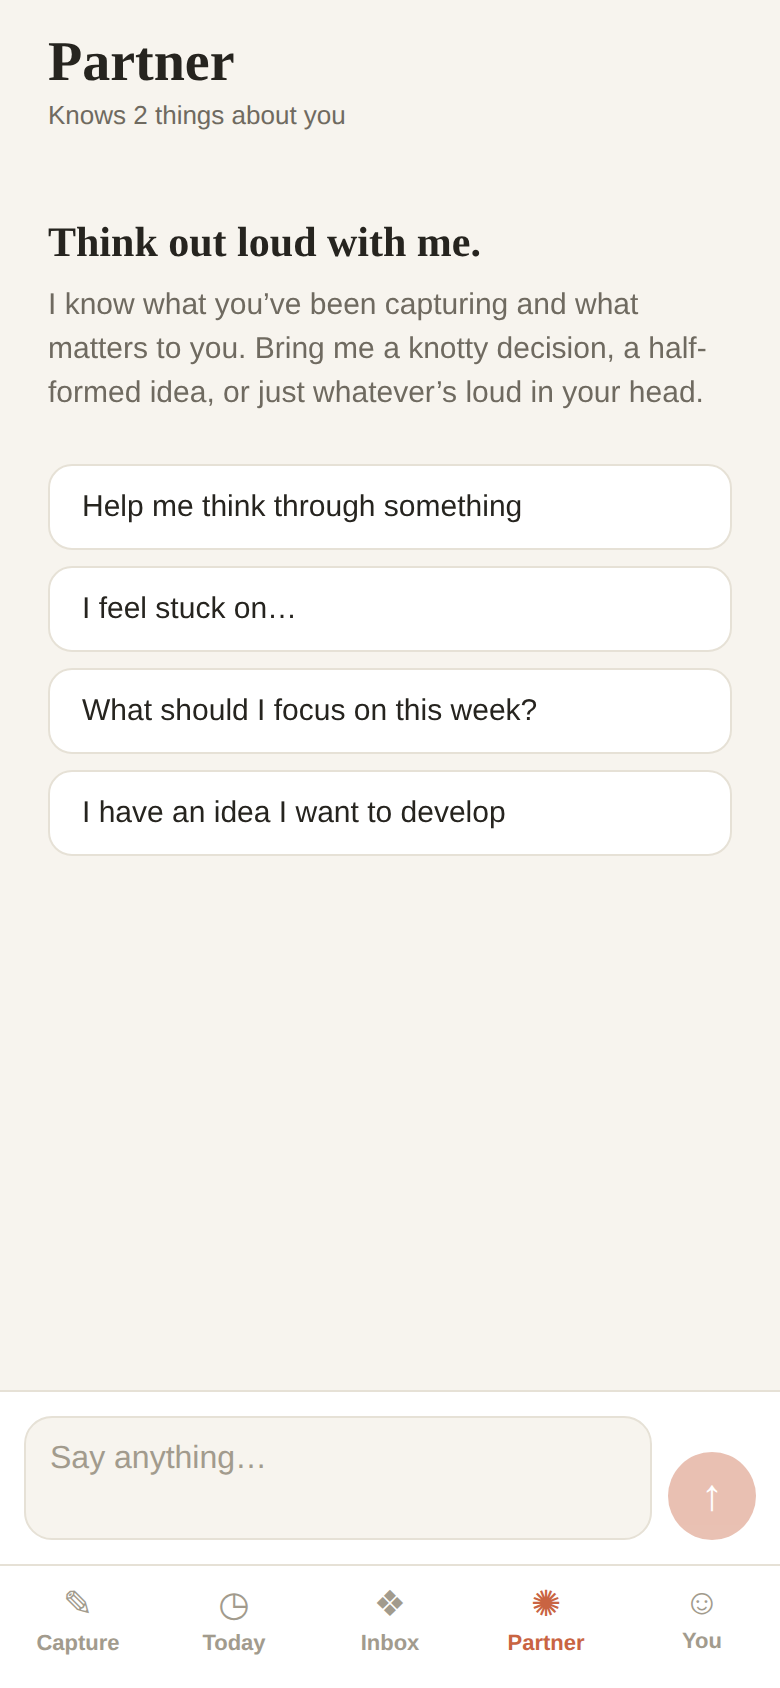
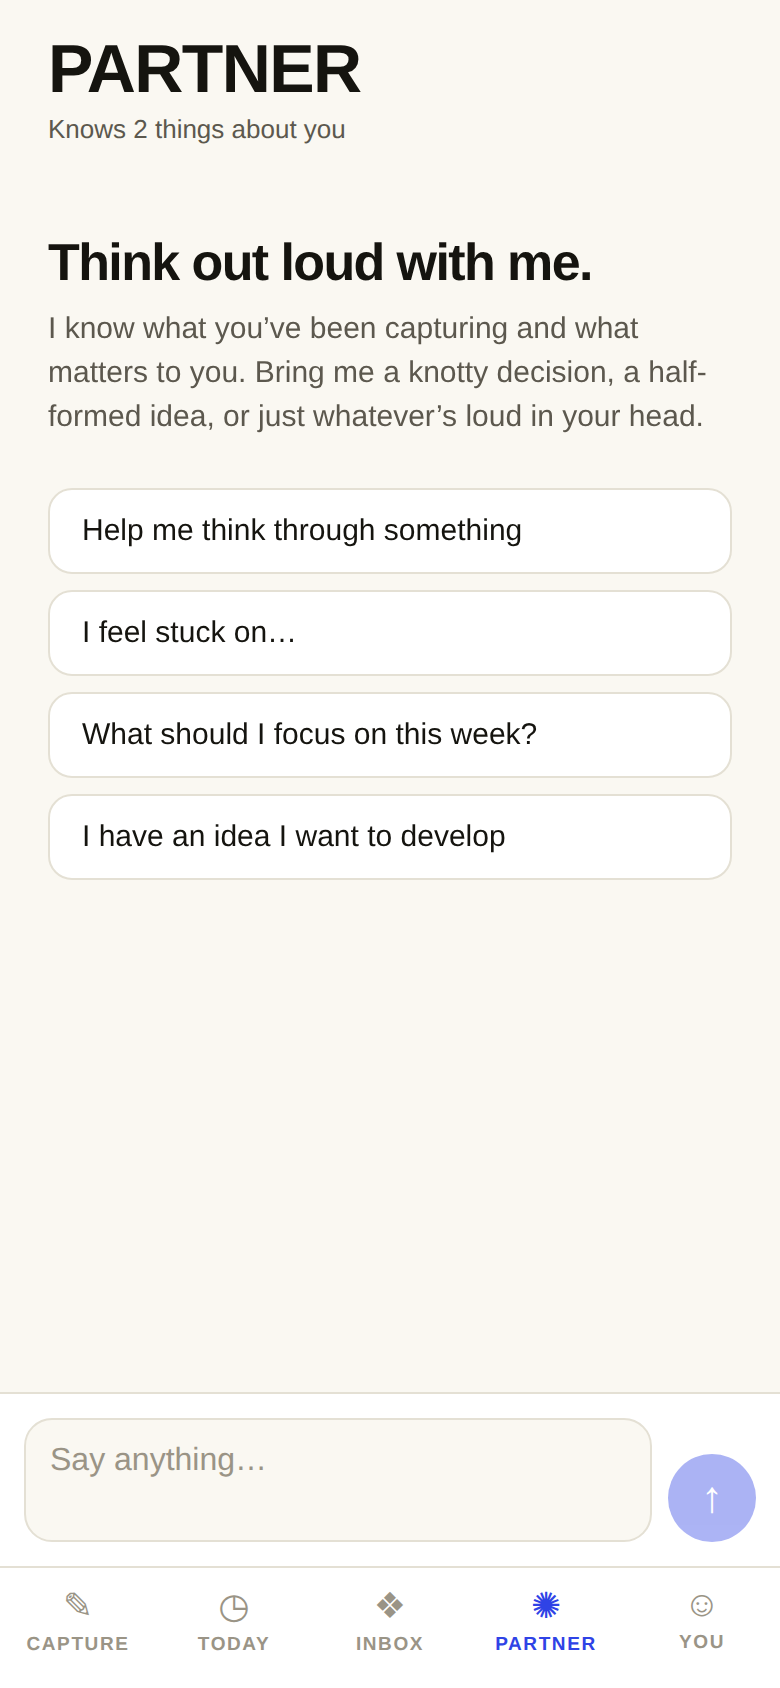
Redesign: bold editorial aesthetic
Replace the warm Claude-style light theme with a bold editorial direction:
- High-contrast ink on bright paper, single electric-cobalt accent.
- Heavy, tight uppercase display headings; wide-tracked eyebrow labels.
- Ink color-block treatment for the partner reply; flat cards with
  crisp hairlines; pill chips and squared buttons.
- New theme tokens (block, borderStrong, accentOnBlock, display, eyebrow,
  radius); per-screen heading/label restyle; uppercase tab labels.

Refresh docs/screenshots to the new look. Typecheck clean.

Claude-Session: https://claude.ai/code/session_018VoJ1fw9PB5Sw6dGGiKwVG

diff --git a/src/screens/TodayScreen.tsx b/src/screens/TodayScreen.tsx
@@ -5,7 +5,7 @@ import { ItemCard } from '../components/ItemCard';
 import { ScheduleSheet } from '../components/ScheduleSheet';
 import { formatSlot, isToday } from '../schedule';
 import { useApp } from '../store/AppContext';
-import { cardShadow, colors, fonts, spacing } from '../theme';
+import { cardShadow, colors, display, eyebrow, spacing } from '../theme';
 import { LoadLevel, SynthItem } from '../types';
 
 const loadMeta: Record<LoadLevel, { label: string; color: string }> = {
@@ -155,18 +155,18 @@ function getGreeting(): string {
 const styles = StyleSheet.create({
   flex: { flex: 1 },
   scroll: { padding: spacing.xl, paddingBottom: spacing.xxl * 2 },
-  greeting: { color: colors.text, fontSize: 30, fontWeight: '600', letterSpacing: -0.3, fontFamily: fonts.serif },
+  greeting: { ...display, fontSize: 36, lineHeight: 38 },
   date: { color: colors.textDim, fontSize: 15, marginTop: 2, marginBottom: spacing.xl },
   coachCard: {
     backgroundColor: colors.surface,
-    borderRadius: 18,
+    borderRadius: 14,
     borderWidth: 1,
     borderColor: colors.border,
-    padding: spacing.lg,
+    padding: spacing.xl,
     ...cardShadow,
   },
   coachHeader: { flexDirection: 'row', justifyContent: 'space-between', alignItems: 'center' },
-  coachTitle: { color: colors.text, fontSize: 17, fontWeight: '700' },
+  coachTitle: { ...display, fontSize: 20 },
   coachBtn: {
     backgroundColor: colors.accent,
     paddingVertical: spacing.sm,
@@ -175,42 +175,37 @@ const styles = StyleSheet.create({
     minWidth: 110,
     alignItems: 'center',
   },
-  coachBtnText: { color: colors.accentText, fontWeight: '700', fontSize: 13 },
+  coachBtnText: { color: colors.accentText, fontWeight: '800', fontSize: 13 },
   coachEmpty: { color: colors.textDim, fontSize: 14, lineHeight: 21, marginTop: spacing.md },
-  loadPill: { flexDirection: 'row', alignItems: 'center', gap: spacing.sm, marginTop: spacing.md },
-  loadDot: { width: 9, height: 9, borderRadius: 5 },
-  loadLabel: { fontSize: 13, fontWeight: '700', textTransform: 'uppercase', letterSpacing: 0.5 },
-  coachSummary: { color: colors.text, fontSize: 15, lineHeight: 22, marginTop: spacing.md },
-  coachBlock: { marginTop: spacing.lg },
-  coachBlockLabel: {
-    color: colors.textFaint,
-    fontSize: 11,
-    fontWeight: '700',
-    textTransform: 'uppercase',
-    letterSpacing: 0.6,
-    marginBottom: spacing.sm,
+  loadPill: {
+    flexDirection: 'row',
+    alignItems: 'center',
+    gap: spacing.sm,
+    marginTop: spacing.lg,
+    alignSelf: 'flex-start',
+    paddingVertical: 6,
+    paddingHorizontal: spacing.md,
+    borderRadius: 999,
+    backgroundColor: colors.surfaceAlt,
   },
+  loadDot: { width: 9, height: 9, borderRadius: 5 },
+  loadLabel: { ...eyebrow, fontSize: 12 },
+  coachSummary: { color: colors.text, fontSize: 16, lineHeight: 24, marginTop: spacing.md, fontWeight: '500' },
+  coachBlock: { marginTop: spacing.lg },
+  coachBlockLabel: { ...eyebrow, color: colors.textFaint, marginBottom: spacing.sm },
   focusItem: { color: colors.text, fontSize: 14, lineHeight: 22 },
   considerItem: { color: colors.textDim, fontSize: 14, lineHeight: 22 },
   considerWhy: { fontStyle: 'italic', color: colors.textFaint },
   encouragement: {
     color: colors.accent,
-    fontSize: 14,
-    fontStyle: 'italic',
-    marginTop: spacing.lg,
-    lineHeight: 21,
-  },
-  sectionLabel: {
-    color: colors.textDim,
-    fontSize: 13,
+    fontSize: 15,
     fontWeight: '700',
-    textTransform: 'uppercase',
-    letterSpacing: 0.5,
-    marginTop: spacing.xxl,
-    marginBottom: spacing.md,
+    marginTop: spacing.lg,
+    lineHeight: 22,
   },
+  sectionLabel: { ...eyebrow, color: colors.textFaint, marginTop: spacing.xxl, marginBottom: spacing.md },
   agendaRow: { flexDirection: 'row', gap: spacing.sm },
-  agendaTime: { color: colors.accent, fontSize: 12, fontWeight: '700', width: 58, paddingTop: spacing.lg },
+  agendaTime: { ...eyebrow, color: colors.accent, fontSize: 11, width: 58, paddingTop: spacing.lg },
   agendaCard: { flex: 1 },
   emptyText: { color: colors.textDim, fontSize: 14, lineHeight: 21 },
 });

diff --git a/src/theme.ts b/src/theme.ts
@@ -1,36 +1,51 @@
-import { Platform } from 'react-native';
+import { Platform, TextStyle } from 'react-native';
 
 import { ItemType } from './types';
 
-// Light, warm, editorial — inspired by Claude's aesthetic: a paper-cream
-// canvas, soft clay/coral accent, calm ink text, and a serif for display type.
+// Bold editorial: a bright paper canvas, heavy high-contrast ink, one electric
+// accent, flat surfaces with crisp hairlines and confident color blocks. Big,
+// tight display type drives the hierarchy — magazine-forward, not soft.
 
 export const colors = {
-  bg: '#F7F4EE', // warm paper
-  surface: '#FFFFFF', // cards sit a touch brighter than the canvas
-  surfaceAlt: '#F0ECE2', // inputs, chips
-  border: '#E6E1D6', // soft warm hairline
-  text: '#26241F', // warm near-black ink
-  textDim: '#6F6A60', // secondary
-  textFaint: '#A29B8D', // tertiary / metadata
-  accent: '#C96442', // Claude clay / coral
-  accentText: '#FFFFFF', // text on accent
-  accentSoft: '#F4E5DD', // tinted coral surface
-  danger: '#BC4B3C',
-  success: '#4F8A5B',
-  warning: '#C0883C',
+  bg: '#FAF8F2', // bright warm paper
+  surface: '#FFFFFF',
+  surfaceAlt: '#F1EEE4', // inputs, chips
+  block: '#15140F', // ink color-block (hero / emphasis fills)
+  border: '#E4E0D4', // hairline
+  borderStrong: '#15140F', // editorial rule / emphasized border
+  text: '#15140F', // near-black ink
+  textOnBlock: '#FAF8F2', // text on ink blocks
+  textDim: '#5C584E',
+  textFaint: '#9A9486',
+  accent: '#2F43E6', // electric cobalt
+  accentText: '#FFFFFF',
+  accentOnBlock: '#AEB7FF', // lighter cobalt for use on ink blocks
+  accentSoft: '#E4E7FB', // tinted accent surface
+  danger: '#D11A2A',
+  success: '#0E8A4F',
+  warning: '#C97A00',
 };
 
-export const fonts = {
-  // Editorial serif for headings; system sans elsewhere.
-  serif: Platform.select({ ios: 'Georgia', android: 'serif', default: 'Georgia' }) as string,
+// Heavy, tight display type for headlines (system grotesque, max weight).
+export const display: TextStyle = {
+  fontWeight: '900',
+  letterSpacing: -0.8,
+  color: colors.text,
+};
+
+// Wide-tracked uppercase eyebrow/label.
+export const eyebrow: TextStyle = {
+  fontWeight: '800',
+  fontSize: 11,
+  letterSpacing: 1.4,
+  textTransform: 'uppercase',
 };
 
 export const typeMeta: Record<ItemType, { label: string; emoji: string; color: string }> = {
-  todo: { label: 'To-do', emoji: '○', color: '#C96442' },
-  event: { label: 'Schedule', emoji: '◷', color: '#C0883C' },
-  insight: { label: 'Insight', emoji: '✦', color: '#7A6CB5' },
-  note: { label: 'Note', emoji: '•', color: '#4F8A5B' },
+  todo: { label: 'To-do', emoji: '○', color: '#2F43E6' },
+  event: { label: 'Schedule', emoji: '◷', color: '#C97A00' },
+  insight: { label: 'Insight', emoji: '✦', color: '#7A3FB0' },
+  note: { label: 'Note', emoji: '•', color: '#0E8A4F' },
 };
 
 export const spacing = {
@@ -42,19 +57,16 @@ export const spacing = {
   xxl: 32,
 };
 
-// A gentle, consistent card shadow (subtle on iOS/web, light elevation on Android).
+export const radius = {
+  sm: 6,
+  md: 10,
+  lg: 14,
+};
+
+// Editorial cards are flat — emphasis comes from borders and ink blocks, not
+// soft shadows. A whisper of lift keeps them off the canvas.
 export const cardShadow = Platform.select({
-  ios: {
-    shadowColor: '#3A2E22',
-    shadowOpacity: 0.06,
-    shadowRadius: 10,
-    shadowOffset: { width: 0, height: 4 },
-  },
+  ios: { shadowColor: '#15140F', shadowOpacity: 0.05, shadowRadius: 6, shadowOffset: { width: 0, height: 2 } },
   android: { elevation: 1 },
-  default: {
-    shadowColor: '#3A2E22',
-    shadowOpacity: 0.06,
-    shadowRadius: 10,
-    shadowOffset: { width: 0, height: 4 },
-  },
+  default: { shadowColor: '#15140F', shadowOpacity: 0.05, shadowRadius: 6, shadowOffset: { width: 0, height: 2 } },
 }) as object;

diff --git a/src/screens/CaptureScreen.tsx b/src/screens/CaptureScreen.tsx
@@ -15,7 +15,7 @@ import {
 import { ItemCard } from '../components/ItemCard';
 import { SuggestionCard } from '../components/SuggestionCard';
 import { useApp } from '../store/AppContext';
-import { cardShadow, colors, fonts, spacing, typeMeta } from '../theme';
+import { cardShadow, colors, display, eyebrow, spacing, typeMeta } from '../theme';
 import { CaptureResult, SynthItem } from '../types';
 import { useVoiceCapture } from '../voice/useVoiceCapture';
 
@@ -204,7 +204,7 @@ export function CaptureScreen() {
 const styles = StyleSheet.create({
   flex: { flex: 1 },
   scroll: { padding: spacing.xl, paddingBottom: spacing.xxl * 2 },
-  brand: { color: colors.text, fontSize: 30, fontWeight: '600', letterSpacing: -0.3, fontFamily: fonts.serif },
+  brand: { ...display, fontSize: 34, textTransform: 'uppercase', letterSpacing: -0.5, lineHeight: 34 },
   tagline: { color: colors.textDim, fontSize: 15, marginTop: spacing.xs, marginBottom: spacing.xl },
   inputWrap: {
     backgroundColor: colors.surface,
@@ -240,7 +240,7 @@ const styles = StyleSheet.create({
     backgroundColor: colors.accent,
     paddingVertical: spacing.md,
     paddingHorizontal: spacing.lg,
-    borderRadius: 12,
+    borderRadius: 10,
     minWidth: 120,
     alignItems: 'center',
   },
@@ -249,23 +249,10 @@ const styles = StyleSheet.create({
   hint: { color: colors.textFaint, fontSize: 13, lineHeight: 19, marginTop: spacing.md },
   error: { color: colors.danger, fontSize: 13, marginTop: spacing.md },
   notice: { color: colors.textDim, fontSize: 13, marginTop: spacing.md, fontStyle: 'italic' },
-  replyCard: { backgroundColor: colors.accentSoft, borderRadius: 16, padding: spacing.lg, marginTop: spacing.xl },
-  replyLabel: {
-    color: colors.accent,
-    fontSize: 11,
-    fontWeight: '800',
-    textTransform: 'uppercase',
-    letterSpacing: 0.8,
-    marginBottom: spacing.sm,
-  },
-  replyText: { color: colors.text, fontSize: 16, lineHeight: 23 },
-  sectionLabel: {
-    color: colors.textDim,
-    fontSize: 13,
-    fontWeight: '600',
-    marginTop: spacing.xl,
-    marginBottom: spacing.md,
-  },
+  replyCard: { backgroundColor: colors.block, borderRadius: 14, padding: spacing.xl, marginTop: spacing.xl },
+  replyLabel: { ...eyebrow, color: colors.accentOnBlock, marginBottom: spacing.sm },
+  replyText: { color: colors.textOnBlock, fontSize: 17, lineHeight: 25, fontWeight: '500' },
+  sectionLabel: { ...eyebrow, color: colors.textFaint, marginTop: spacing.xl, marginBottom: spacing.md },
   learnedCard: {
     backgroundColor: colors.surface,
     borderRadius: 14,

diff --git a/src/screens/YouScreen.tsx b/src/screens/YouScreen.tsx
@@ -4,7 +4,7 @@ import { Pressable, ScrollView, StyleSheet, Text, View } from 'react-native';
 import { SuggestionCard } from '../components/SuggestionCard';
 import { useApp } from '../store/AppContext';
 import { SettingsScreen } from './SettingsScreen';
-import { colors, fonts, spacing } from '../theme';
+import { colors, display, eyebrow, spacing } from '../theme';
 import { FactCategory } from '../types';
 
 type Pane = 'about' | 'suggestions' | 'settings';
@@ -122,7 +122,7 @@ export function YouScreen() {
 const styles = StyleSheet.create({
   flex: { flex: 1 },
   header: { paddingHorizontal: spacing.xl, paddingTop: spacing.lg, paddingBottom: spacing.sm },
-  title: { color: colors.text, fontSize: 28, fontWeight: '600', fontFamily: fonts.serif },
+  title: { ...display, fontSize: 34, textTransform: 'uppercase' },
   subtitle: { color: colors.textDim, fontSize: 14, marginTop: 2 },
   segment: {
     flexDirection: 'row',
@@ -134,20 +134,13 @@ const styles = StyleSheet.create({
     borderWidth: 1,
     borderColor: colors.border,
   },
-  segBtn: { flex: 1, paddingVertical: spacing.sm, borderRadius: 9, alignItems: 'center' },
-  segBtnActive: { backgroundColor: colors.accentSoft },
-  segText: { color: colors.textDim, fontSize: 14, fontWeight: '600' },
-  segTextActive: { color: colors.accent },
+  segBtn: { flex: 1, paddingVertical: spacing.sm, borderRadius: 8, alignItems: 'center' },
+  segBtnActive: { backgroundColor: colors.block },
+  segText: { ...eyebrow, fontSize: 11, color: colors.textDim },
+  segTextActive: { color: colors.textOnBlock },
   scroll: { padding: spacing.xl, paddingTop: spacing.sm, paddingBottom: spacing.xxl * 2 },
   group: { marginBottom: spacing.xl },
-  groupLabel: {
-    color: colors.textFaint,
-    fontSize: 11,
-    fontWeight: '700',
-    textTransform: 'uppercase',
-    letterSpacing: 0.6,
-    marginBottom: spacing.sm,
-  },
+  groupLabel: { ...eyebrow, color: colors.textFaint, marginBottom: spacing.sm },
   factRow: {
     flexDirection: 'row',
     justifyContent: 'space-between',

diff --git a/src/screens/InboxScreen.tsx b/src/screens/InboxScreen.tsx
@@ -4,7 +4,7 @@ import { Pressable, ScrollView, StyleSheet, Text, View } from 'react-native';
 import { ItemCard } from '../components/ItemCard';
 import { ScheduleSheet } from '../components/ScheduleSheet';
 import { useApp } from '../store/AppContext';
-import { colors, fonts, spacing, typeMeta } from '../theme';
+import { colors, display, eyebrow, spacing, typeMeta } from '../theme';
 import { ItemType, SynthItem } from '../types';
 
 type Filter = 'all' | ItemType | 'open';
@@ -90,20 +90,20 @@ export function InboxScreen() {
 const styles = StyleSheet.create({
   flex: { flex: 1 },
   header: { paddingHorizontal: spacing.xl, paddingTop: spacing.lg, paddingBottom: spacing.sm },
-  title: { color: colors.text, fontSize: 28, fontWeight: '600', fontFamily: fonts.serif },
+  title: { ...display, fontSize: 34, textTransform: 'uppercase' },
   subtitle: { color: colors.textDim, fontSize: 14, marginTop: 2 },
   filters: { paddingHorizontal: spacing.xl, gap: spacing.sm, paddingVertical: spacing.md },
   chip: {
     paddingVertical: spacing.sm,
     paddingHorizontal: spacing.md,
-    borderRadius: 20,
+    borderRadius: 999,
     backgroundColor: colors.surface,
     borderWidth: 1,
     borderColor: colors.border,
   },
-  chipActive: { backgroundColor: colors.accent, borderColor: colors.accent },
-  chipText: { color: colors.textDim, fontSize: 13, fontWeight: '600' },
-  chipTextActive: { color: colors.accentText },
+  chipActive: { backgroundColor: colors.block, borderColor: colors.block },
+  chipText: { ...eyebrow, fontSize: 11, color: colors.textDim },
+  chipTextActive: { color: colors.textOnBlock },
   list: { padding: spacing.xl, paddingTop: spacing.sm, paddingBottom: spacing.xxl * 2 },
   empty: { padding: spacing.xxl, alignItems: 'center' },
   emptyText: { color: colors.textDim, fontSize: 15, textAlign: 'center', lineHeight: 22 },

diff --git a/src/screens/PartnerScreen.tsx b/src/screens/PartnerScreen.tsx
@@ -13,7 +13,7 @@ import {
 
 import { ChatBubble } from '../components/ChatBubble';
 import { useApp } from '../store/AppContext';
-import { colors, fonts, spacing } from '../theme';
+import { colors, display, spacing } from '../theme';
 
 const STARTERS = [
   'Help me think through something',
@@ -121,12 +121,12 @@ const styles = StyleSheet.create({
     paddingTop: spacing.lg,
     paddingBottom: spacing.md,
   },
-  title: { color: colors.text, fontSize: 28, fontWeight: '600', fontFamily: fonts.serif },
+  title: { ...display, fontSize: 34, textTransform: 'uppercase' },
   subtitle: { color: colors.textDim, fontSize: 13, marginTop: 2 },
   clear: { color: colors.textFaint, fontSize: 14, fontWeight: '600' },
   thread: { padding: spacing.xl, paddingTop: spacing.sm, flexGrow: 1 },
   intro: { paddingTop: spacing.xl },
-  introTitle: { color: colors.text, fontSize: 21, fontWeight: '600', marginBottom: spacing.sm, fontFamily: fonts.serif },
+  introTitle: { ...display, fontSize: 26, marginBottom: spacing.sm, lineHeight: 30 },
   introBody: { color: colors.textDim, fontSize: 15, lineHeight: 22, marginBottom: spacing.xl },
   starters: { gap: spacing.sm },
   starter: {

diff --git a/src/screens/SettingsScreen.tsx b/src/screens/SettingsScreen.tsx
@@ -12,7 +12,7 @@ import {
 
 import { DEFAULT_MODEL } from '../settings';
 import { useApp } from '../store/AppContext';
-import { colors, fonts, spacing } from '../theme';
+import { colors, display, spacing } from '../theme';
 
 const MODEL_OPTIONS = [
   { id: 'claude-sonnet-4-6', label: 'Sonnet 4.6 — balanced (recommended)' },
@@ -137,7 +137,7 @@ export function SettingsScreen({ embedded = false }: { embedded?: boolean } = {}
 
 const styles = StyleSheet.create({
   scroll: { padding: spacing.xl, paddingBottom: spacing.xxl * 2 },
-  title: { color: colors.text, fontSize: 28, fontWeight: '600', marginBottom: spacing.lg, fontFamily: fonts.serif },
+  title: { ...display, fontSize: 34, textTransform: 'uppercase', marginBottom: spacing.lg },
   section: {
     backgroundColor: colors.surface,
     borderRadius: 16,

diff --git a/src/components/ItemCard.tsx b/src/components/ItemCard.tsx
@@ -127,7 +127,7 @@ const styles = StyleSheet.create({
   },
   checkDone: { backgroundColor: colors.accent },
   checkMark: { color: colors.accentText, fontSize: 13, fontWeight: '900', lineHeight: 16 },
-  title: { color: colors.text, fontSize: 16, fontWeight: '600', marginBottom: 2 },
+  title: { color: colors.text, fontSize: 16, fontWeight: '700', letterSpacing: -0.2, marginBottom: 2 },
   body: { color: colors.textDim, fontSize: 14, lineHeight: 20, marginTop: 2 },
   struck: { textDecorationLine: 'line-through', color: colors.textFaint },
   footerRow: {

diff --git a/App.tsx b/App.tsx
@@ -82,6 +82,6 @@ const styles = StyleSheet.create({
   },
   tab: { flex: 1, alignItems: 'center', gap: 3 },
   tabIcon: { fontSize: 18, color: colors.textFaint },
-  tabLabel: { color: colors.textFaint, fontSize: 11, fontWeight: '600' },
+  tabLabel: { color: colors.textFaint, fontSize: 9.5, fontWeight: '800', letterSpacing: 0.8, textTransform: 'uppercase' },
   tabActive: { color: colors.accent },
 });
